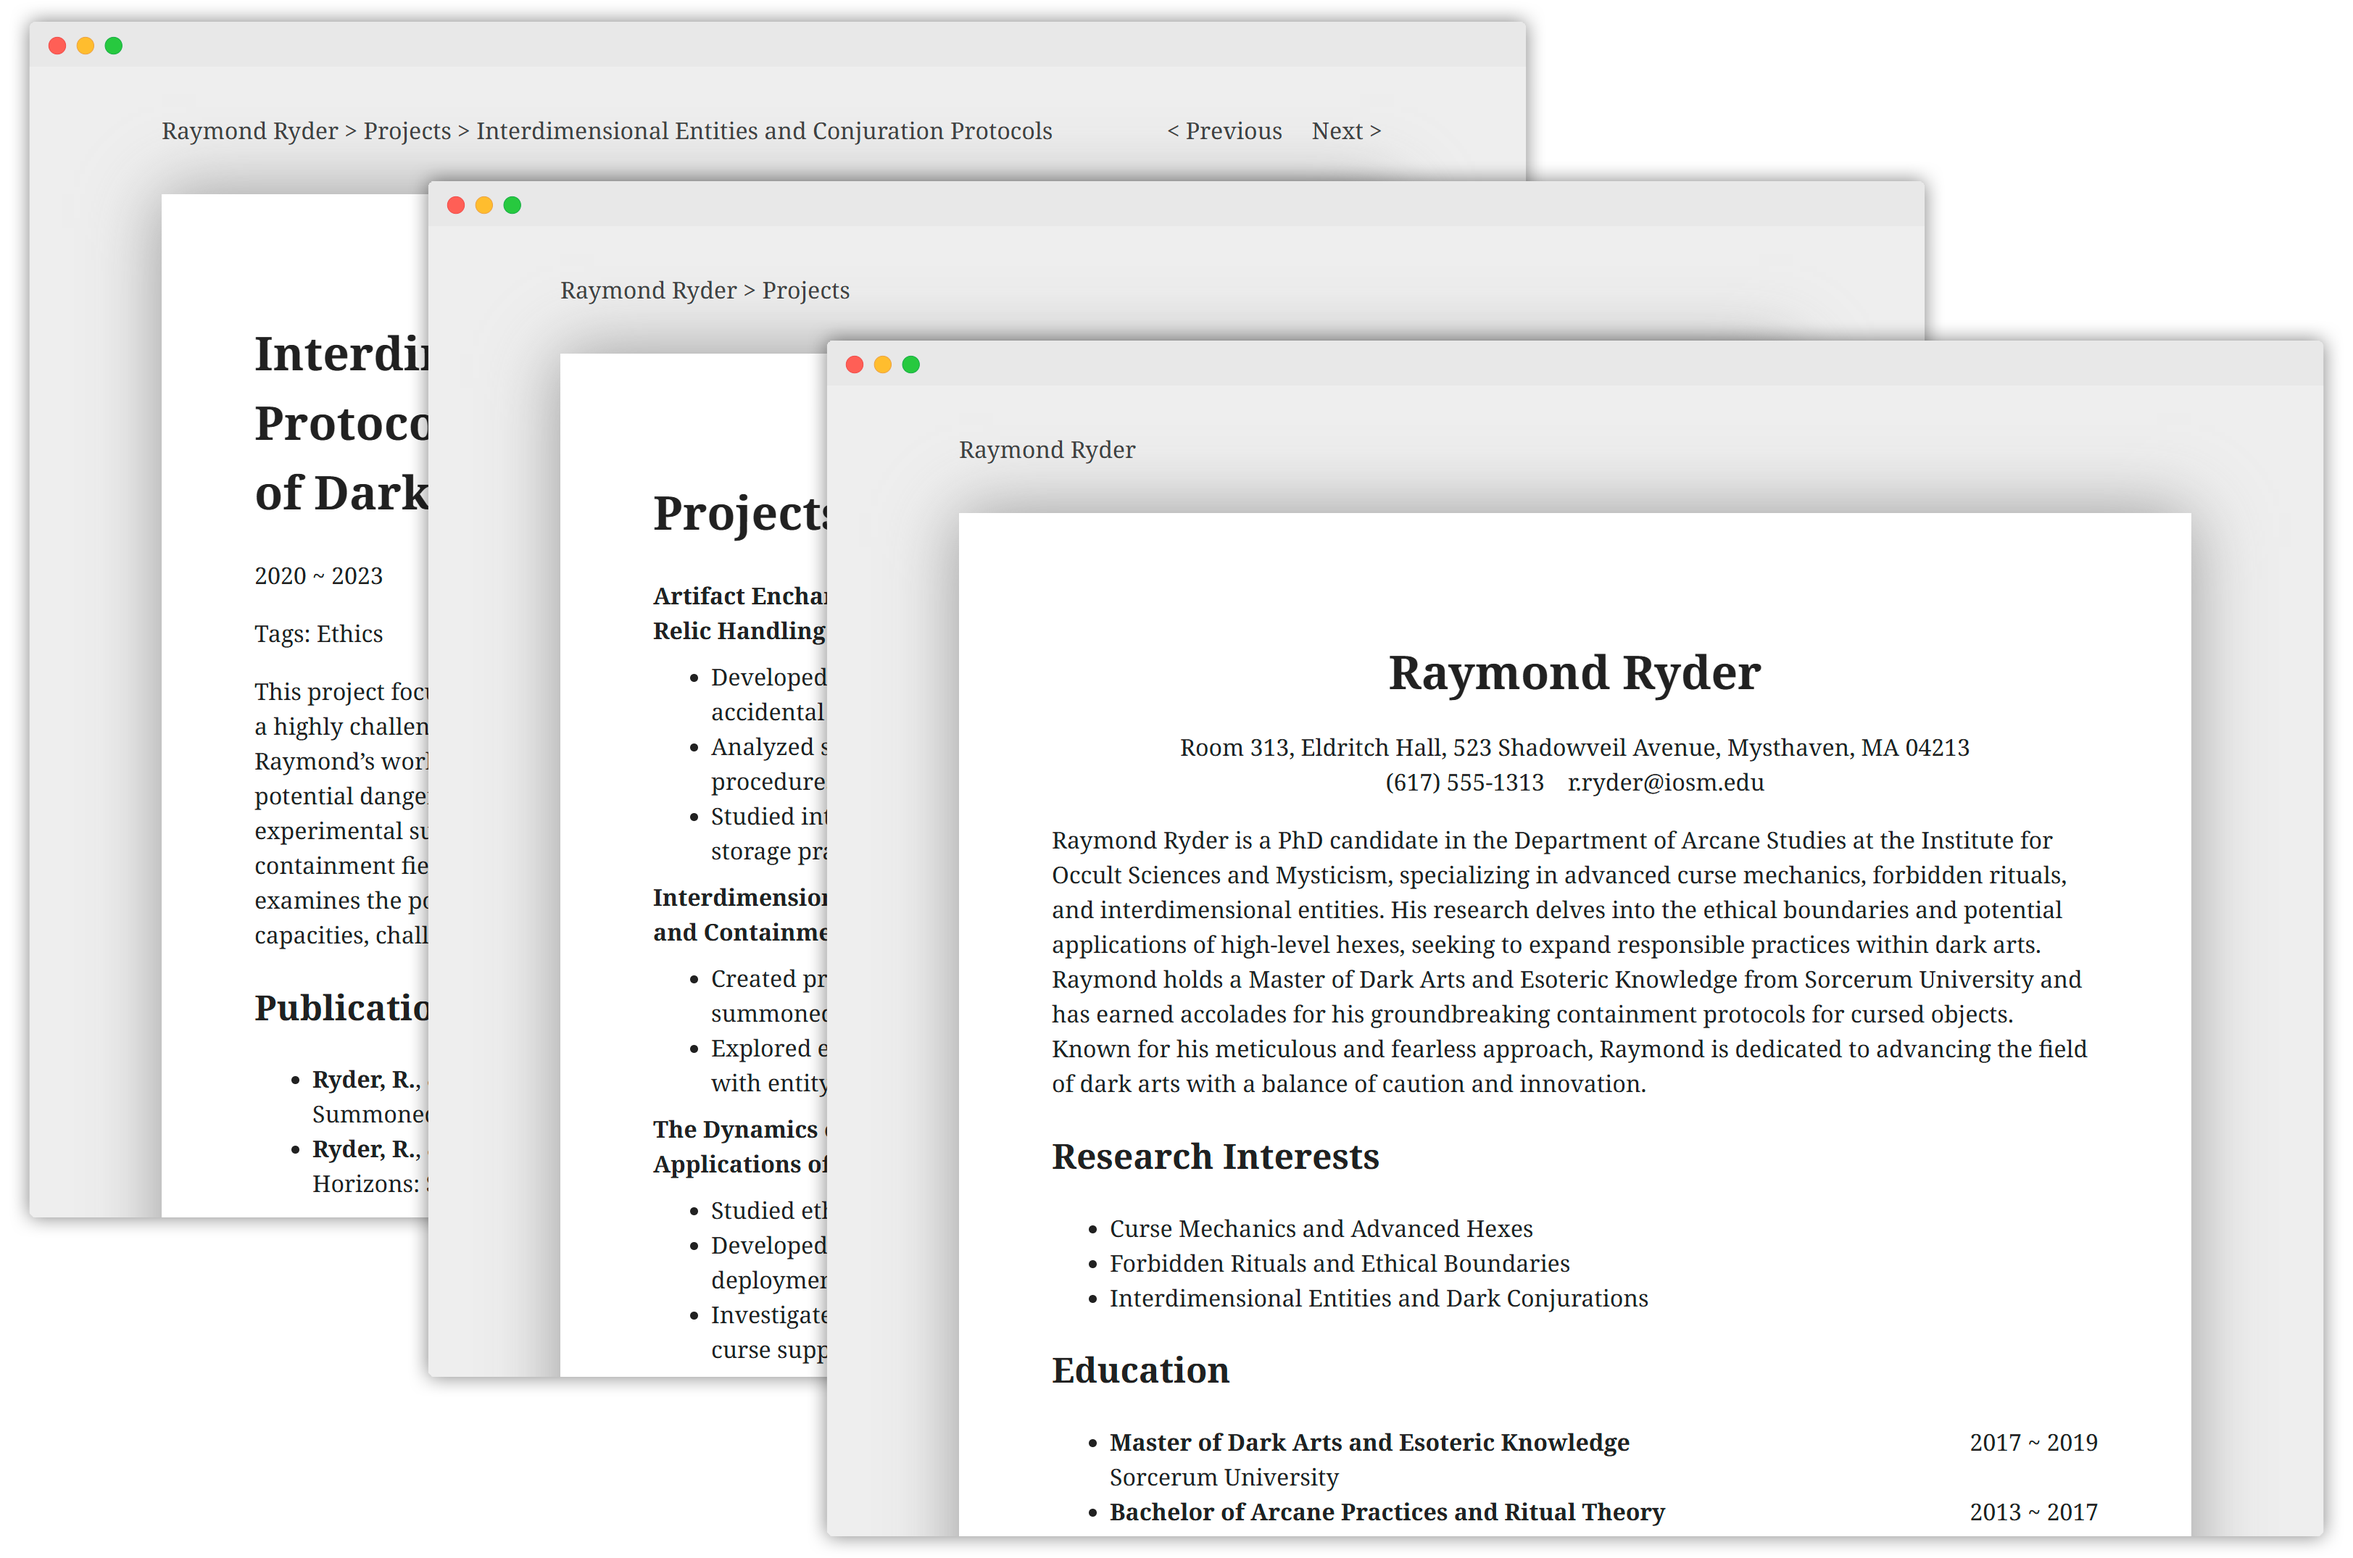
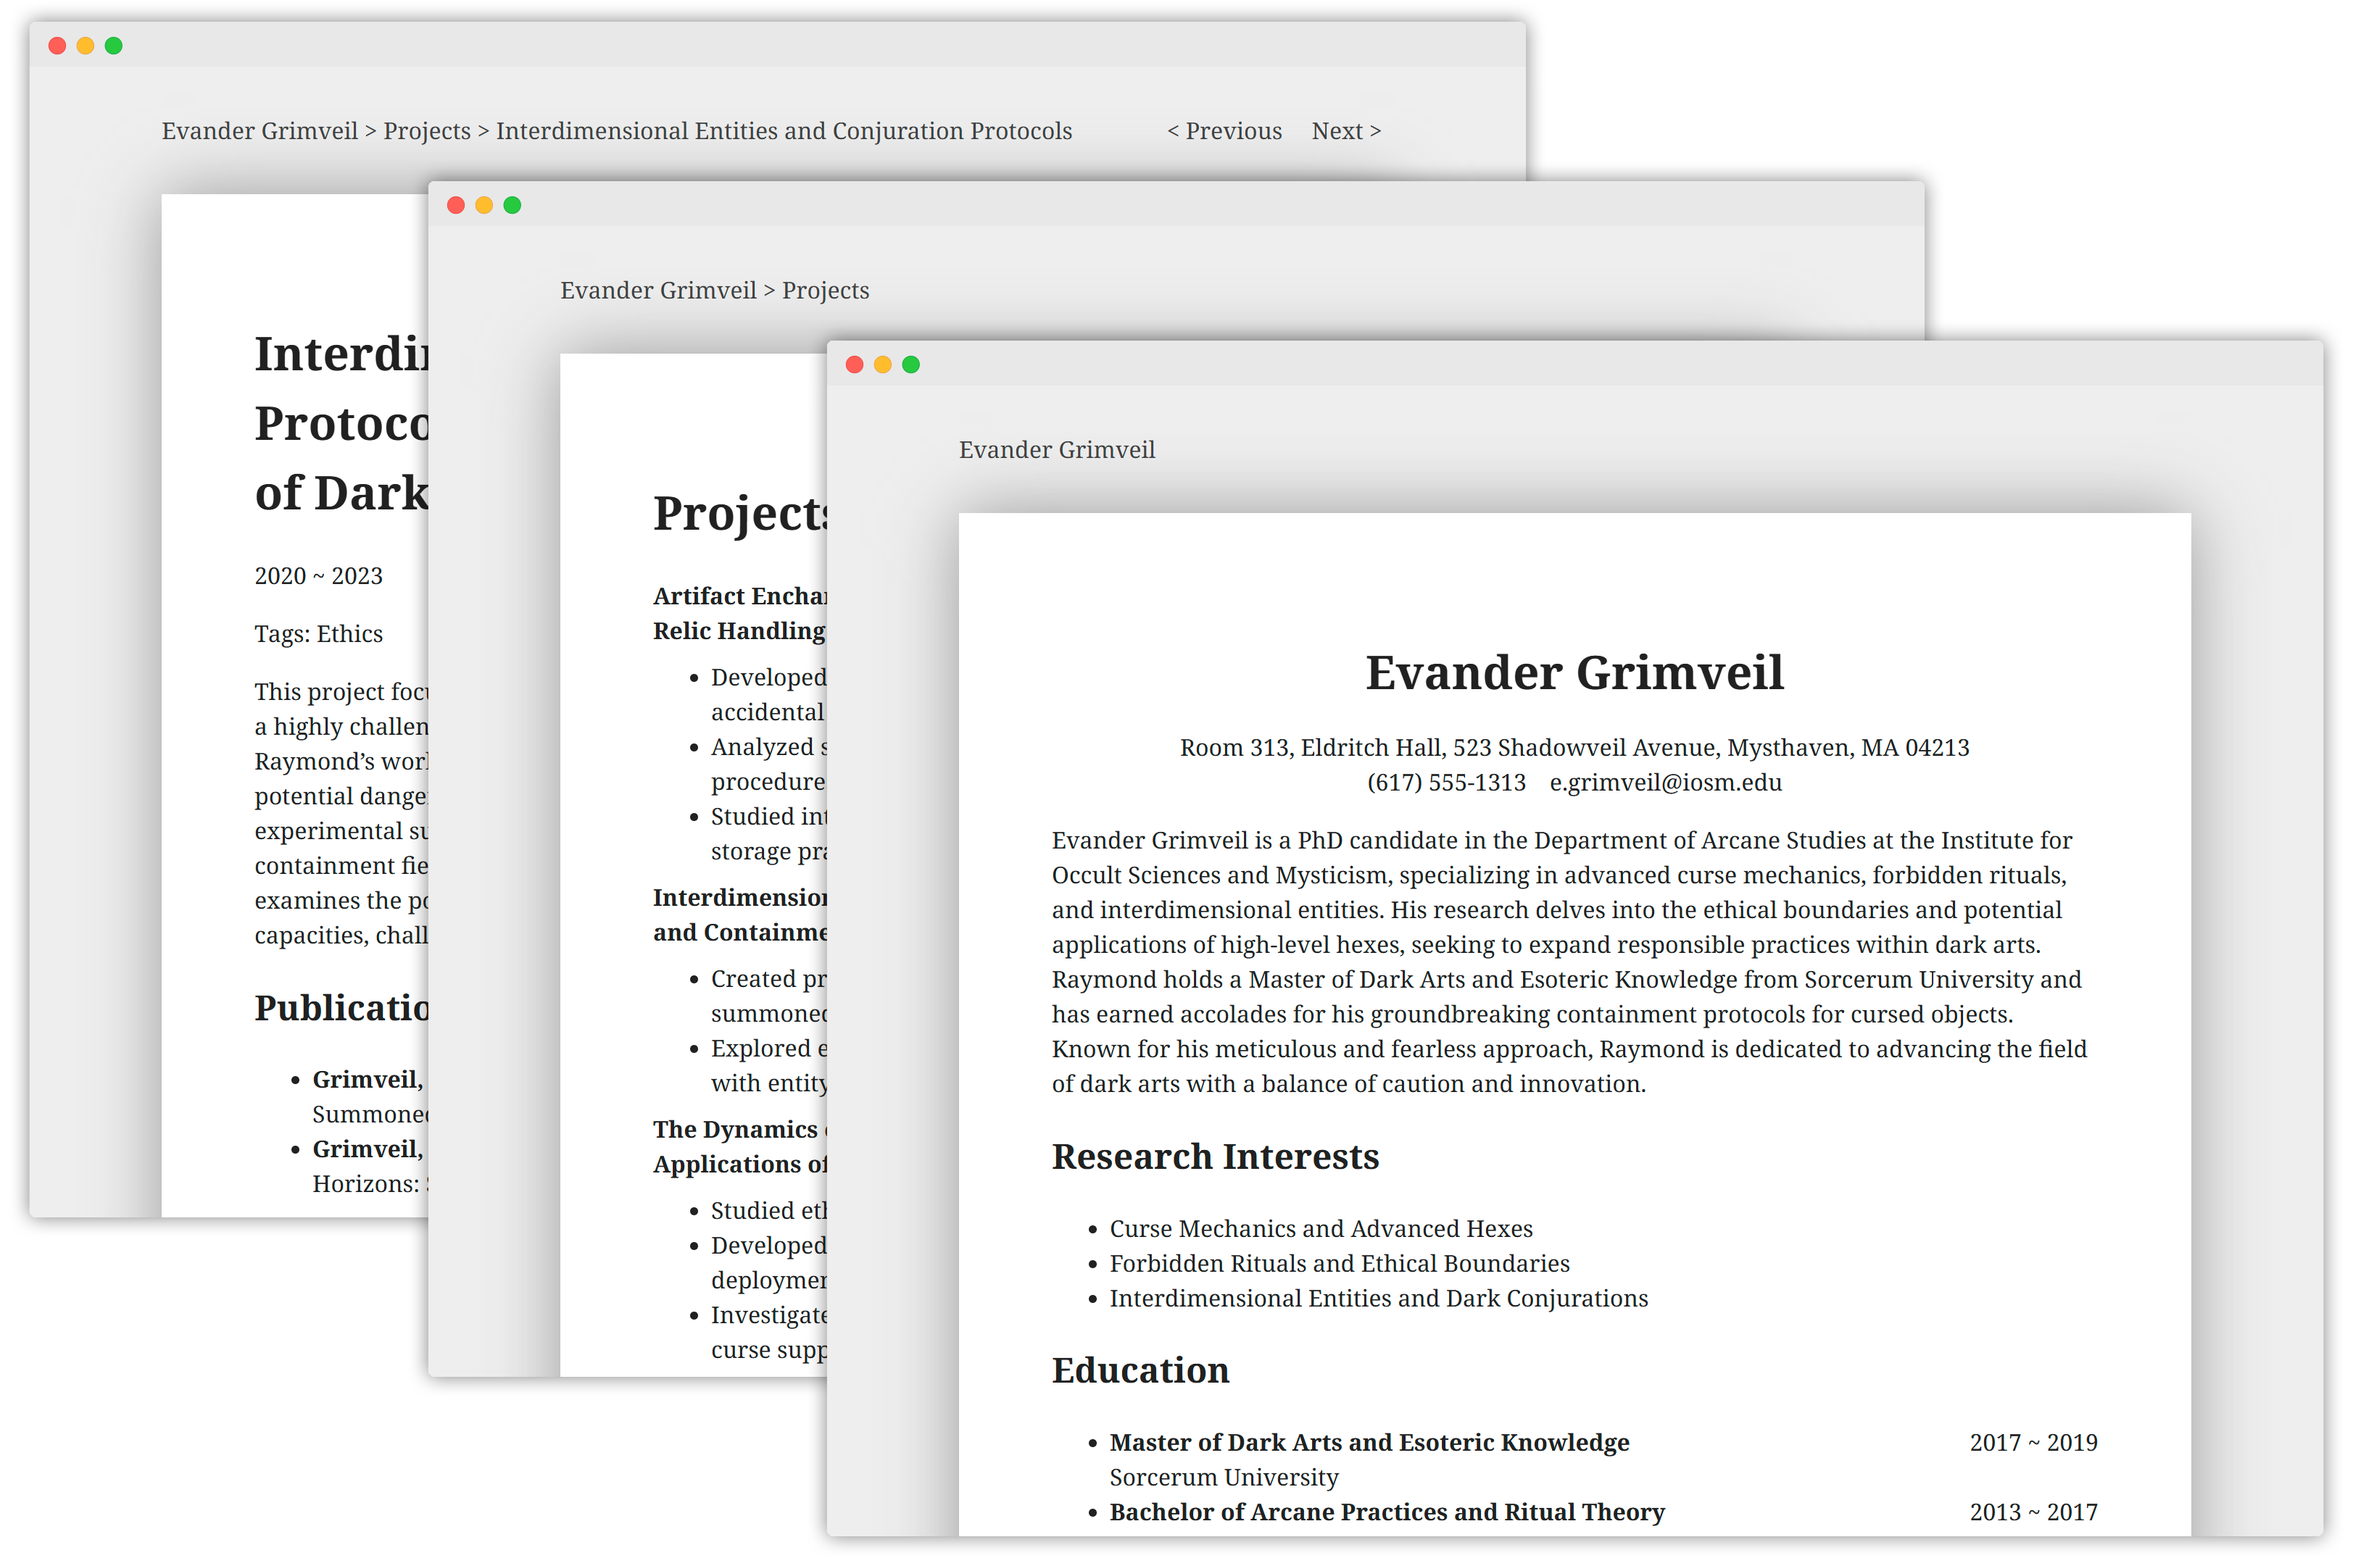
fix: fixed charactor profile

diff --git a/exampleSite/content/projects/interdimensional-entities-and-conjuration-protocols/index.md b/exampleSite/content/projects/interdimensional-entities-and-conjuration-protocols/index.md
@@ -9,4 +9,4 @@ tags = ["ethics"]
     publications = ["veiled2021", "conjured2023"]
 +++
 
-This project focuses on the summoning, control, and containment of interdimensional entities, a highly challenging area within dark arts that involves conjuring beings from other realms. Raymond's work addresses the ethical concerns surrounding these practices, as well as the potential dangers associated with unstable conjurations. Through rigorous fieldwork and experimental summoning, he has developed protocols for safer conjuration environments and containment fields that protect practitioners and surrounding spaces. This research also examines the potential beneficial uses of conjured entities in protective and restorative capacities, challenging the traditional view of such beings as purely malevolent.
+This project focuses on the summoning, control, and containment of interdimensional entities, a highly challenging area within dark arts that involves conjuring beings from other realms. Evander's work addresses the ethical concerns surrounding these practices, as well as the potential dangers associated with unstable conjurations. Through rigorous fieldwork and experimental summoning, he has developed protocols for safer conjuration environments and containment fields that protect practitioners and surrounding spaces. This research also examines the potential beneficial uses of conjured entities in protective and restorative capacities, challenging the traditional view of such beings as purely malevolent.

diff --git a/exampleSite/content/projects/the-dynamics-of-forbidden-rites/index.md b/exampleSite/content/projects/the-dynamics-of-forbidden-rites/index.md
@@ -9,4 +9,4 @@ tags = ["rites", "ethics"]
     publications = ["beyond2020", "hex2022", "shadow2023"]
 +++
 
-Evander Grimveil’s research project on the Dynamics of Forbidden Rites seeks to unravel the intricate workings of high-level curses, exploring both their structure and ethical applications. This study dives into the mechanics of advanced hexes, investigating how they can be modified for purposes beyond their traditional use, such as protection or healing. His research involves hands-on experimentation with ancient curse artifacts, careful dissections of curse transference patterns, and the development of counter-curse methodologies. By analyzing these curses in a controlled setting, Raymond aims to create safe frameworks for the practical deployment of dark magic under ethical guidelines.
+Evander Grimveil’s research project on the Dynamics of Forbidden Rites seeks to unravel the intricate workings of high-level curses, exploring both their structure and ethical applications. This study dives into the mechanics of advanced hexes, investigating how they can be modified for purposes beyond their traditional use, such as protection or healing. His research involves hands-on experimentation with ancient curse artifacts, careful dissections of curse transference patterns, and the development of counter-curse methodologies. By analyzing these curses in a controlled setting, Evander aims to create safe frameworks for the practical deployment of dark magic under ethical guidelines.

diff --git a/exampleSite/content/projects/artifact-enhantment-and-hex-containment/index.md b/exampleSite/content/projects/artifact-enhantment-and-hex-containment/index.md
@@ -9,4 +9,4 @@ tags = ["artifact"]
     publications = ["securing2021"]
 +++
 
-This project centers on the development of containment methods for volatile, high-risk enchanted artifacts. Raymond’s work in this area examines the stability of cursed and hex-bound relics, seeking safer ways to transport, store, and neutralize these objects. Through his innovative artifact containment spells and barrier enchantments, Raymond has contributed to improved standards in relic handling across arcane institutions. His research also explores how the enchantments on dark relics interact with external magical energies, influencing their stability and curse potency.
+This project centers on the development of containment methods for volatile, high-risk enchanted artifacts. Evander’s work in this area examines the stability of cursed and hex-bound relics, seeking safer ways to transport, store, and neutralize these objects. Through his innovative artifact containment spells and barrier enchantments, Evander has contributed to improved standards in relic handling across arcane institutions. His research also explores how the enchantments on dark relics interact with external magical energies, influencing their stability and curse potency.
